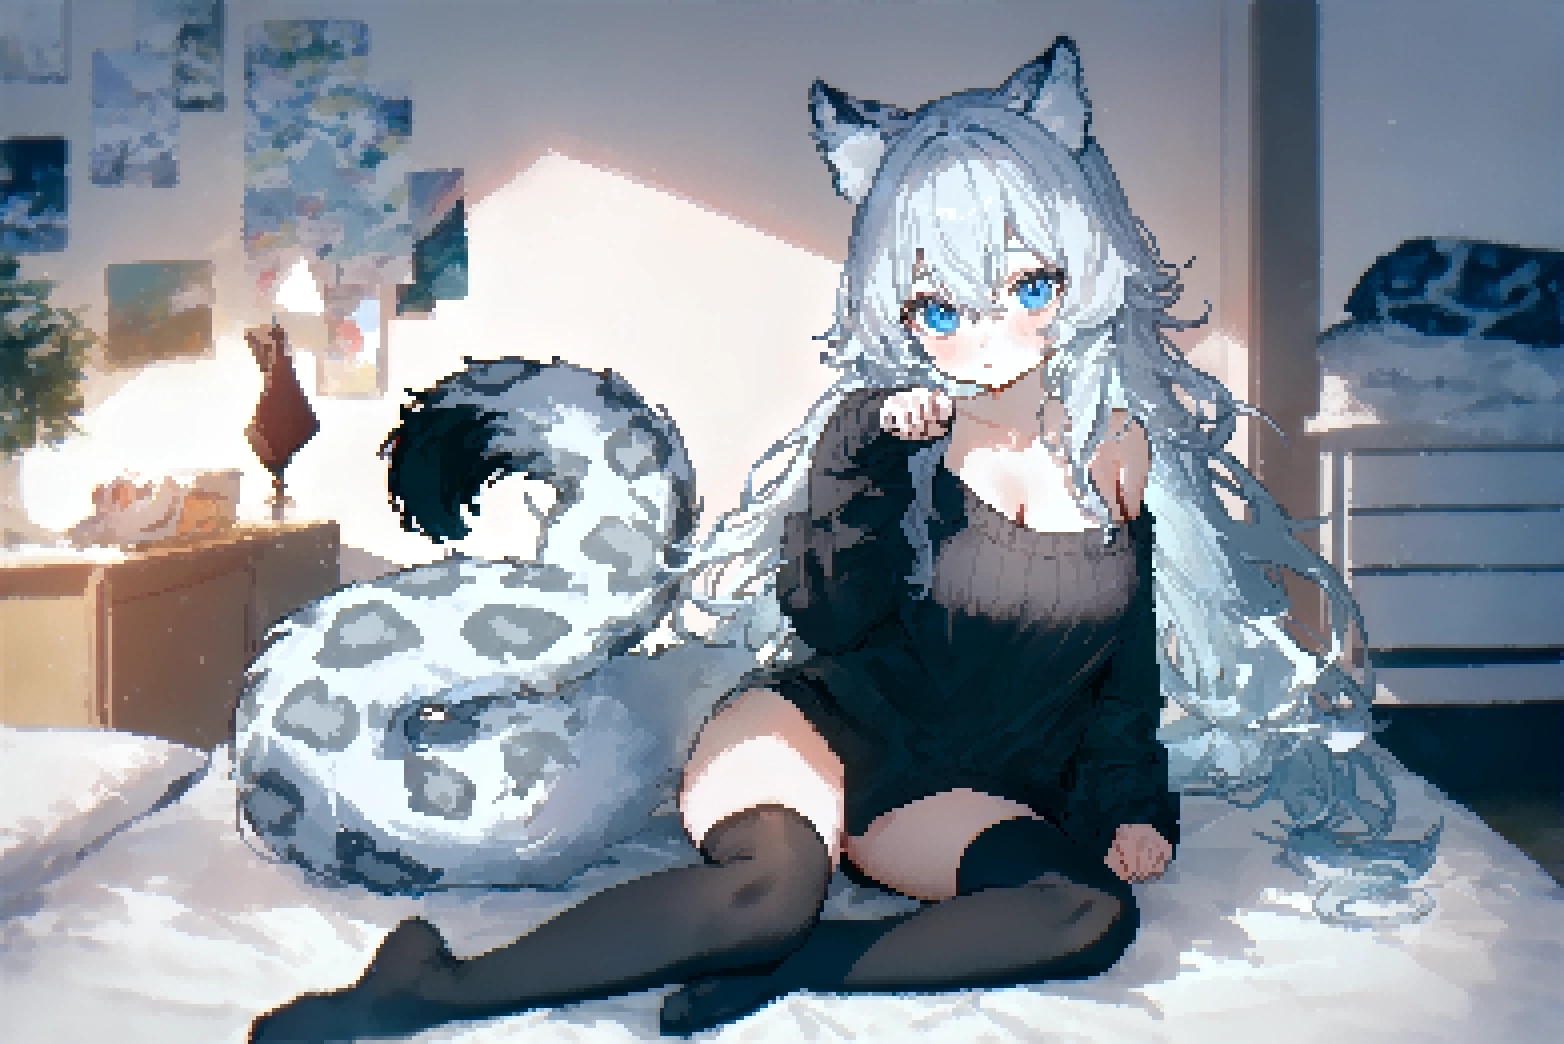
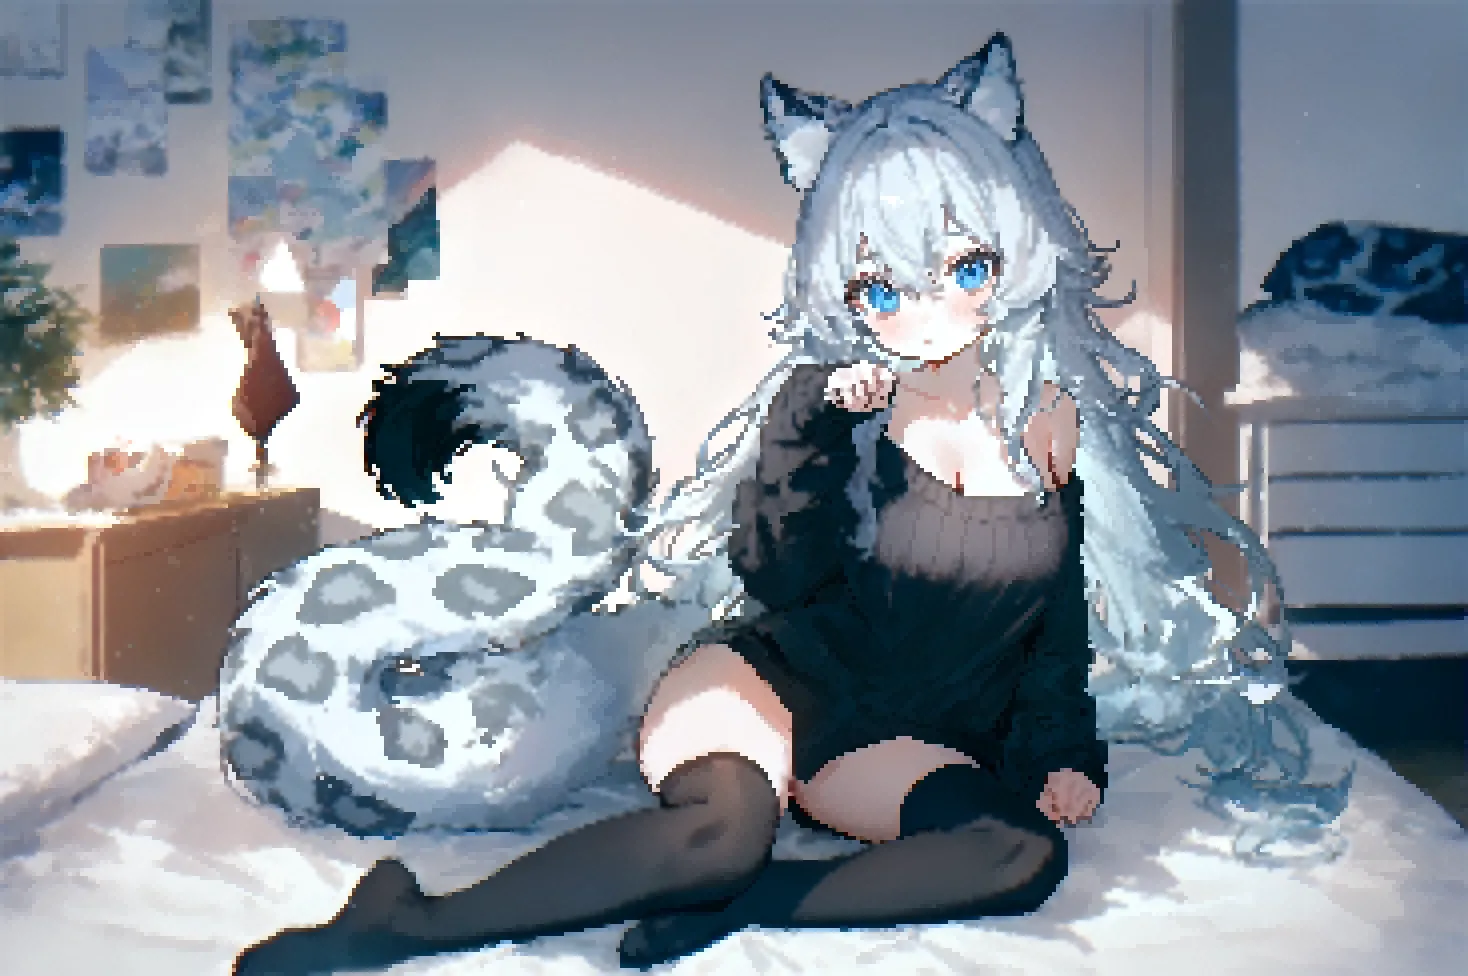
new demo for batched, k-centroid

diff --git a/demo-torch.py b/demo-torch.py
@@ -46,15 +46,17 @@ if __name__ == "__main__":
     )
 
     print("Start Outline Expansion test:")
-    dilate_t = dilate_cont(img_t, KERNELS[thickness], 1)
+    dilate_t = dilate_cont(img_t.repeat(2, 1, 1, 1), KERNELS[thickness], 1)
     dilate_img = Image.fromarray(to_numpy(dilate_t)[0])
     dilate_img.save("./img/snow-leopard-dilate.webp")
 
-    erode_t = erode_cont(img_t, KERNELS[thickness], 1)
+    erode_t = erode_cont(img_t.repeat(2, 1, 1, 1), KERNELS[thickness], 1)
     erode_img = Image.fromarray(to_numpy(erode_t)[0])
     erode_img.save("./img/snow-leopard-erode.webp")
 
-    oe_t, w = outline_expansion(img_t, thickness, thickness, patch_size, 10, 3)
+    oe_t, w = outline_expansion(
+        img_t.repeat(2, 1, 1, 1), thickness, thickness, patch_size, 10, 3
+    )
     oe = Image.fromarray(to_numpy(oe_t)[0])
     oe.save("./img/snow-leopard-oe.webp")
     w = Image.fromarray(w[0, 0].float().cpu().numpy().clip(0, 1) * 255).convert("L")
@@ -65,20 +67,34 @@ if __name__ == "__main__":
     print(f"  Patch Size    : {patch_size}")
     print(f"  Thickness     : {thickness}")
     print(f"  Original Size : {img_t.shape[3]}x{img_t.shape[2]}")
-    print(f"  Pixelized Size: {img_t.shape[3]//patch_size}x{img_t.shape[2]//patch_size}")
+    print(
+        f"  Pixelized Size: {img_t.shape[3]//patch_size}x{img_t.shape[2]//patch_size}"
+    )
     pixel_art_t = pixelize_pytorch(
-        img_t,
+        img_t.repeat(2, 1, 1, 1),  # for testing batch process
         target_size=target_size,
         patch_size=patch_size,
         thickness=thickness,
-        do_color_match=True,
+        do_color_match=False,
     )
     pixel_art = Image.fromarray(to_numpy(pixel_art_t)[0])
     pixel_art.save("./img/snow-leopard-pixel.webp")
     print("    Pixlize test done")
 
     pixel_art_t = pixelize_pytorch(
-        img_t,
+        img_t.repeat(2, 1, 1, 1),
+        target_size=target_size,
+        patch_size=patch_size,
+        thickness=thickness,
+        mode="k_centroid",
+        do_color_match=True,
+    )
+    pixel_art = Image.fromarray(to_numpy(pixel_art_t)[0])
+    pixel_art.save("./img/snow-leopard-pixel-k.webp")
+    print("    K-Centroid test done")
+
+    pixel_art_t = pixelize_pytorch(
+        img_t.repeat(2, 1, 1, 1),
         target_size=target_size,
         patch_size=patch_size,
         thickness=thickness,
@@ -92,7 +108,7 @@ if __name__ == "__main__":
     print("    Color Quantization test done")
 
     pixel_art_t = pixelize_pytorch(
-        img_t,
+        img_t.repeat(2, 1, 1, 1),
         target_size=target_size,
         patch_size=patch_size,
         thickness=thickness,
@@ -106,7 +122,7 @@ if __name__ == "__main__":
     print("    Ordered Dithering test done")
 
     pixel_art_t = pixelize_pytorch(
-        img_t,
+        img_t.repeat(2, 1, 1, 1),
         target_size=target_size,
         patch_size=patch_size,
         thickness=thickness,
@@ -123,9 +139,11 @@ if __name__ == "__main__":
     print(f"  Patch Size    : {lg_patch_size}")
     print(f"  Thickness     : {lg_thickness}")
     print(f"  Original Size : {img_t_lg.shape[3]}x{img_t_lg.shape[2]}")
-    print(f"  Pixelized Size: {img_t_lg.shape[3]//lg_patch_size}x{img_t_lg.shape[2]//lg_patch_size}")
+    print(
+        f"  Pixelized Size: {img_t_lg.shape[3]//lg_patch_size}x{img_t_lg.shape[2]//lg_patch_size}"
+    )
     pixel_art_t = pixelize_pytorch(
-        img_t_lg,
+        img_t_lg.repeat(2, 1, 1, 1),
         target_size=lg_target_size,
         patch_size=lg_patch_size,
         thickness=3,
@@ -136,7 +154,19 @@ if __name__ == "__main__":
     print("    Pixlize test done")
 
     pixel_art_t = pixelize_pytorch(
-        img_t_lg,
+        img_t_lg.repeat(2, 1, 1, 1),
+        target_size=lg_target_size,
+        patch_size=lg_patch_size,
+        thickness=3,
+        do_color_match=True,
+        mode="k_centroid",
+    )
+    pixel_art = Image.fromarray(to_numpy(pixel_art_t)[0])
+    pixel_art.save("./img/snow-leopard-pixel-lg-k.webp")
+    print("    K-Centroid test done")
+
+    pixel_art_t = pixelize_pytorch(
+        img_t_lg.repeat(2, 1, 1, 1),
         target_size=lg_target_size,
         patch_size=lg_patch_size,
         thickness=3,
@@ -150,7 +180,7 @@ if __name__ == "__main__":
     print("    Color Quantization test done")
 
     pixel_art_t = pixelize_pytorch(
-        img_t_lg,
+        img_t_lg.repeat(2, 1, 1, 1),
         target_size=lg_target_size,
         patch_size=lg_patch_size,
         thickness=3,
@@ -164,7 +194,7 @@ if __name__ == "__main__":
     print("    Ordered Dithering test done")
 
     pixel_art_t = pixelize_pytorch(
-        img_t_lg,
+        img_t_lg.repeat(2, 1, 1, 1),
         target_size=lg_target_size,
         patch_size=lg_patch_size,
         thickness=3,
@@ -177,6 +207,7 @@ if __name__ == "__main__":
     pixel_art.save("./img/snow-leopard-pixel-lg-256c-ed.webp")
     print("    Error Diffusion test done")
 
+    # exit()
     N = 50
     print("Start speed test:")
     print(f"  {target_size=}")
@@ -193,7 +224,6 @@ if __name__ == "__main__":
                 patch_size=patch_size,
                 thickness=thickness,
                 do_color_match=False,
-                do_quant=False,
             )
         torch.cuda.empty_cache()
         t = timeit(
@@ -203,7 +233,6 @@ if __name__ == "__main__":
                 patch_size=patch_size,
                 thickness=thickness,
                 do_color_match=False,
-                do_quant=False,
             )""",
             globals=globals(),
             number=N,
@@ -227,7 +256,6 @@ if __name__ == "__main__":
                 patch_size=patch_size,
                 thickness=thickness,
                 do_color_match=False,
-                do_quant=False,
             )
         torch.cuda.empty_cache()
         t = timeit(
@@ -237,7 +265,6 @@ if __name__ == "__main__":
                 patch_size=lg_patch_size,
                 thickness=lg_thickness,
                 do_color_match=False,
-                do_quant=False,
             )""",
             globals=globals(),
             number=N,
